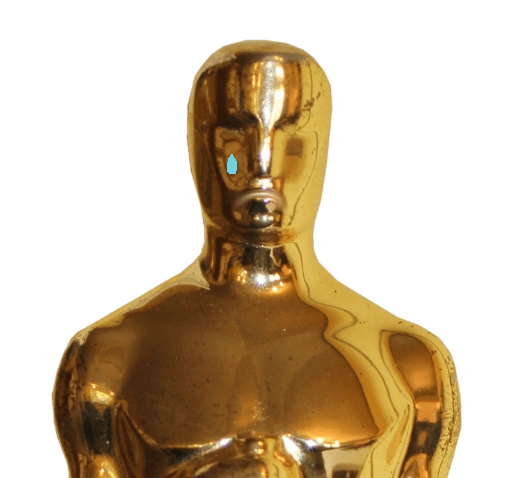
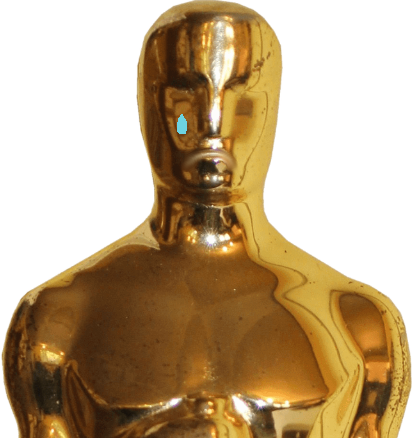
added search results error message

diff --git a/shoppies/src/components/SearchResults.js b/shoppies/src/components/SearchResults.js
@@ -6,6 +6,7 @@ import ListItem from '@material-ui/core/ListItem';
 import CardContent from '@material-ui/core/CardContent';
 import CardHeader from '@material-ui/core/CardHeader';
 import MovieCard from "./MovieCard";
+import Typography from '@material-ui/core/Typography';
 
 const SearchResults = (props) => {
 
@@ -13,6 +14,7 @@ const SearchResults = (props) => {
     card: {
       padding: '10px 4px',
       boxShadow: '2px 4px 6px 4px #ccc',
+      marginBottom: '6%',
     },
     title: {
       position: 'sticky',
@@ -25,6 +27,10 @@ const SearchResults = (props) => {
     result: {
       paddingLeft: '2px',
     },
+    errorText: {
+      textAlign: 'center',
+      marginTop: '20%',
+    }
   }));
 
   const classes = useStyles();
@@ -34,13 +40,20 @@ const SearchResults = (props) => {
       <CardHeader className={classes.title} title="Movie Search Results" />
       <CardContent>
         <List className={classes.results}>
-          {(
-            props.movies.map((movie, index) => (
-              <ListItem key={index} className={classes.result}>
-                <MovieCard key={index} imdb={movie.imdbID} title={movie.Title} year={movie.Year} poster={movie.Poster} setNominees={props.setNominees}/>
-              </ListItem>
-            ))
-          )}
+          { // Conditional rendering based on if movie results exist
+                (props.movies === null)
+                  ? <div>
+                      <div className={classes.errorText}>
+                        <Typography component="h5" variant="h5">Hmmm... no results!</Typography>
+                        <Typography variant="subtitle1" color="textSecondary">Try a more specific search.</Typography>
+                      </div>
+                    </div>
+                  : props.movies.map((movie, index) => (
+                      <ListItem key={index} className={classes.result}>
+                        <MovieCard key={index} imdb={movie.imdbID} title={movie.Title} year={movie.Year} poster={movie.Poster} />
+                      </ListItem>
+                    ))
+              }
         </List>
       </CardContent>
     </Card>

diff --git a/shoppies/src/components/Nominations.js b/shoppies/src/components/Nominations.js
@@ -25,13 +25,12 @@ const Nominations = (props) => {
       overflow: 'scroll',
     },
     sadOscar: {
-      maxWidth: '30vh',
-    },
-    sadOscarWrapper: {
-      position: 'absolute',
-      left: '50%',
-      transform: 'translate(-50%, -50%)', 
-      top: '45%',
+      width: '32%',
+      minWidth: '20vh',
+      display: 'block',
+      marginLeft: 'auto',
+      marginRight: 'auto',
+      marginTop: '8%',
     },
     sadOscarText: {
       textAlign: 'center',
@@ -58,10 +57,12 @@ const Nominations = (props) => {
           <List className={classes.nominations}>
               { // Conditional rendering based on if nominations exist
                 (context.nominationList.length === 0)
-                  ? <div className={classes.sadOscarWrapper}>
+                  ? <div>
                       <img src={SadOscar} alt="sad oscar" className={classes.sadOscar} />
-                      <Typography className={classes.sadOscarText} component="h5" variant="h5">No nominations yet!</Typography>
-                      <Typography className={classes.sadOscarText} variant="subtitle1" color="textSecondary">Use the search bar to get started.</Typography>
+                      <div className={classes.sadOscarText}>
+                        <Typography component="h5" variant="h5">No nominations yet!</Typography>
+                        <Typography variant="subtitle1" color="textSecondary">Use the search bar to get started.</Typography>
+                      </div>
                     </div>
                   : nomsList.map((movie, index) => (
                       <ListItem key={index} className={classes.result}>
@@ -69,7 +70,7 @@ const Nominations = (props) => {
                       </ListItem>
                     ))
               }
-              </List>
+            </List>
           </CardContent>
         </Card>
       )}

diff --git a/shoppies/src/components/App.js b/shoppies/src/components/App.js
@@ -1,12 +1,11 @@
 import React, { useReducer } from "react";
-import "../App.css";
+import { makeStyles } from '@material-ui/core/styles';
+import Grid from '@material-ui/core/Grid';
+import Alert from '@material-ui/lab/Alert';
 import Header from "./Header";
 import Search from "./Search";
 import SearchResults from "./SearchResults";
 import Nominations from "./Nominations";
-import { makeStyles } from '@material-ui/core/styles';
-import Grid from '@material-ui/core/Grid';
-import Alert from '@material-ui/lab/Alert';
 import { BannerContextConsumer } from "./BannerContext";
 
 const initialState = {
@@ -24,11 +23,13 @@ const reducer = (state, action) => {
     case "PASS":
       return {
         ...state,
-        movies: action.payload
+        movies: action.payload,
+        errorMessage: null
       };
     case "FAIL":
       return {
         ...state,
+        movies: null,
         errorMessage: action.error
       };
     default:
@@ -41,7 +42,6 @@ const App = () => {
   const { movies, errorMessage } = state;
 
   const search = searchTerm => {
-
     dispatch({
       type: "REQ"
     });
@@ -97,7 +97,7 @@ const App = () => {
           <div className={classes.divider}></div>
           <div className={classes.results}>
             <Grid container spacing={3}>
-              <Grid item xs={6}>
+              <Grid item xs={6} >
                 <SearchResults movies={movies} errorMessage={errorMessage} />
               </Grid>
               <Grid item xs={6}>

diff --git a/shoppies/src/components/Header.js b/shoppies/src/components/Header.js
@@ -1,7 +1,6 @@
 import React from "react";
 import { makeStyles } from '@material-ui/core/styles';
 import Logo from "./logo.png";
-import "../App.css";
 
 const Header = () => {
 
@@ -9,7 +8,7 @@ const Header = () => {
     head: {
       minHeight: '46vh',
       width: '100%',
-      backgroundColor: '#DFF3F7',
+      backgroundColor: '#eaeef3',
     },
     logo: {
       maxWidth: '65vh',

diff --git a/shoppies/src/components/NominationListContext.js b/shoppies/src/components/NominationListContext.js
@@ -7,8 +7,7 @@ class NominationListContextProvider extends Component {
   };
 
   setNominationList = (newList) => {
-    // could update localStorage here for persistence
-  
+    // could update localStorage here for persistence  
     this.setState(prevState => {
       return {
         nominationList: newList
